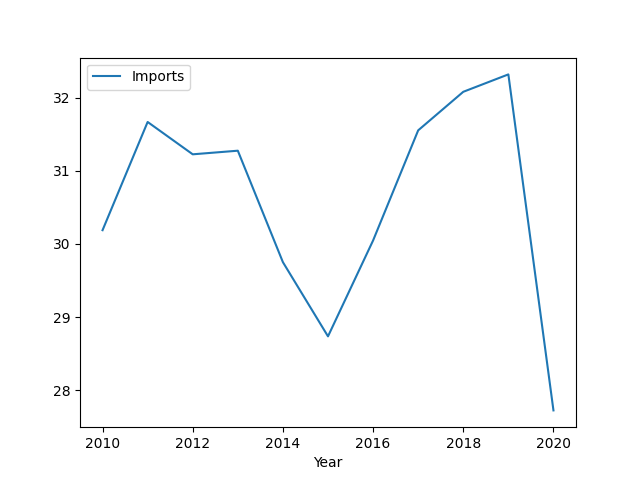
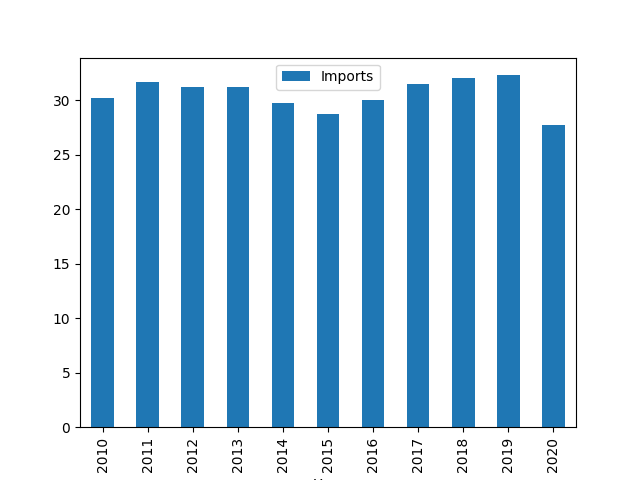
Update function for plotting data and validation

Changed region(s): [[0.0625, 0.125, 0.9062, 1.0], [0.625, 0.9375, 0.6562, 0.9688]]

diff --git a/run.py b/run.py
@@ -120,8 +120,8 @@ def create_data_frame():
     """
     project_data = SHEET.worksheet('project_data')
     all_data = project_data.get_all_values()
-    headers = data.pop(0)
-    df = pd.DataFrame(data, columns=headers)
+    headers = all_data.pop(0)
+    df = pd.DataFrame(all_data, columns=headers)
     df = df.astype({
         'Unemployment': 'float',
         'Exports': 'float',
@@ -138,29 +138,23 @@ def select_y_plot():
     """
     Get column name input from the user to plot for y axis.
     Run while loop to collect valid string data from user.
-    If multiple columns entered this must be separated by commas.
     The loop will repeat until data input from user is valid.
     """
     while True:
         print("Please enter the column name for the y-axis plot.")
         print("The input should be exactly the same as from the data sheet.")
-        print("To enter multiple columns, separate these by commas.")
-        print("Example: GDP,GDP per capita\n")
+        print("Example: GDP growth\n")
 
         y_plot_str = input("Enter y-plot column here: \n")
 
-        y_plot_column = y_plot_str.split(",")
-
-        if validate_y_plot(y_plot_column):
-            print("Input is valid!")
+        if validate_y_plot(y_plot_str):
+            print("Input is valid!\n")
             break
 
-    # print(y_plot_column)
-
-    return y_plot_column
+    return y_plot_str
 
 
-def validate_y_plot(values):
+def validate_y_plot(value):
     """
     List defined of correct column names as per data sheet.
     Variable defined to check if input from user list matches
@@ -177,11 +171,11 @@ def validate_y_plot(values):
         'Government expenditure',
         'Imports'
     ]
-    check_value = any(value in values for value in correct_values)
+    # check_value = any(value in values for value in correct_values)
     try:
-        if check_value is not True:
+        if value not in correct_values:
             raise ValueError(
-                f"Incorrect column name entered, you entered {values}"
+                f"Incorrect column name entered, you entered {value}"
             )
     except ValueError as e:
         print(f"Invalid input: {e}, please try again.\n")
@@ -210,7 +204,7 @@ def select_plot_type():
     return plot_type_str
 
 
-def validate_plot_type(values):
+def validate_plot_type(value):
     """
     List defined of correct plot types. Variable defined to check if
     input from user list matches to the correct values list.
@@ -220,9 +214,9 @@ def validate_plot_type(values):
     """
     correct_type = ['bar', 'scatter', 'line']
     try:
-        if values not in correct_type:
+        if value not in correct_type:
             raise ValueError(
-                f"Incorrect plot type, you entered {values}"
+                f"Incorrect plot type, you entered {value}"
             )
     except ValueError as e:
         print(f"Invalid input: {e}, please try again.\n")
@@ -231,15 +225,13 @@ def validate_plot_type(values):
     return True
 
 
-def plot_output(data, values, plot):
+def plot_output(data, value, plot):
     """
     Plot output as per user input.
     Image is saved of the plotted output.
     """
     print("Plotting data...")
-    plt.figure()
-    data.plot('Year', values, kind=plot)
-    print(data.plot('Year', values, kind=plot))
+    data.plot('Year', value, kind=plot)
     plt.savefig('assets/images/fig.png')
     plt.show()
     print("Data plotted successfully!")
@@ -258,9 +250,9 @@ def main():
     estimate = calculate_estimate(average)
     update_worksheet(estimate, "estimate")
     data_frame = create_data_frame()
-    # y_plot = select_y_plot()
-    # plot_type = select_plot_type()
-    # plot_output(data_frame, y_plot, plot_type)
+    y_plot = select_y_plot()
+    plot_type = select_plot_type()
+    plot_output(data_frame, y_plot, plot_type)
 
 
 main()
